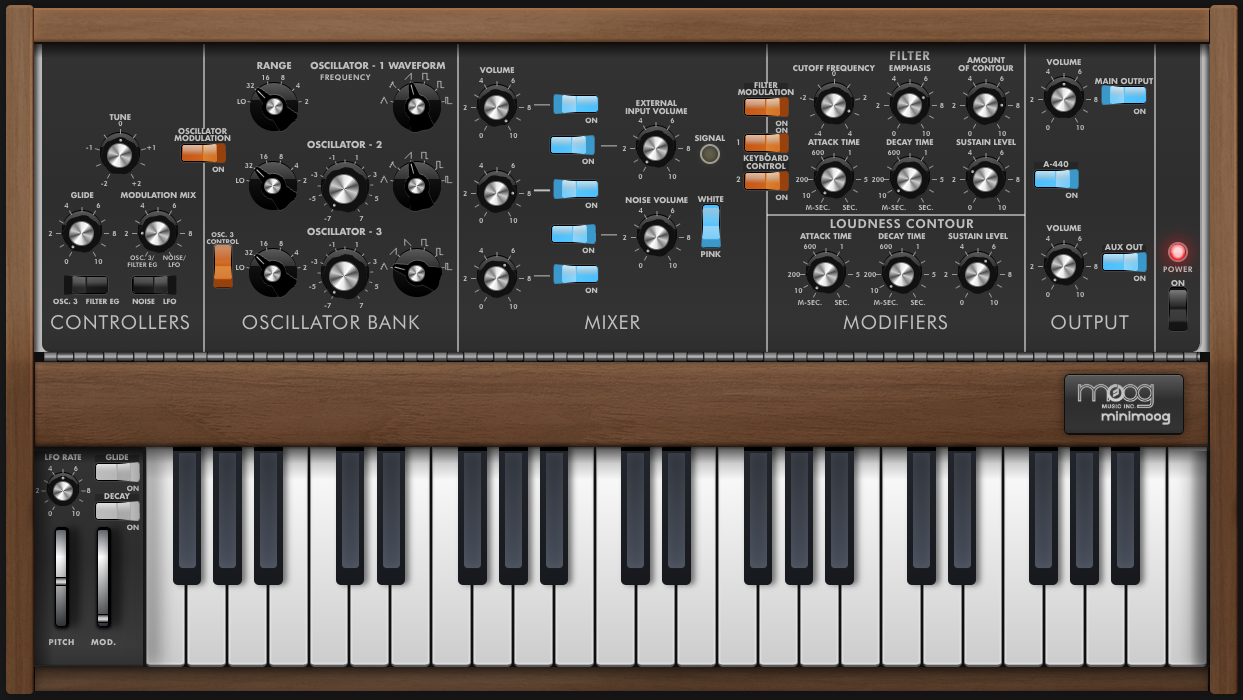
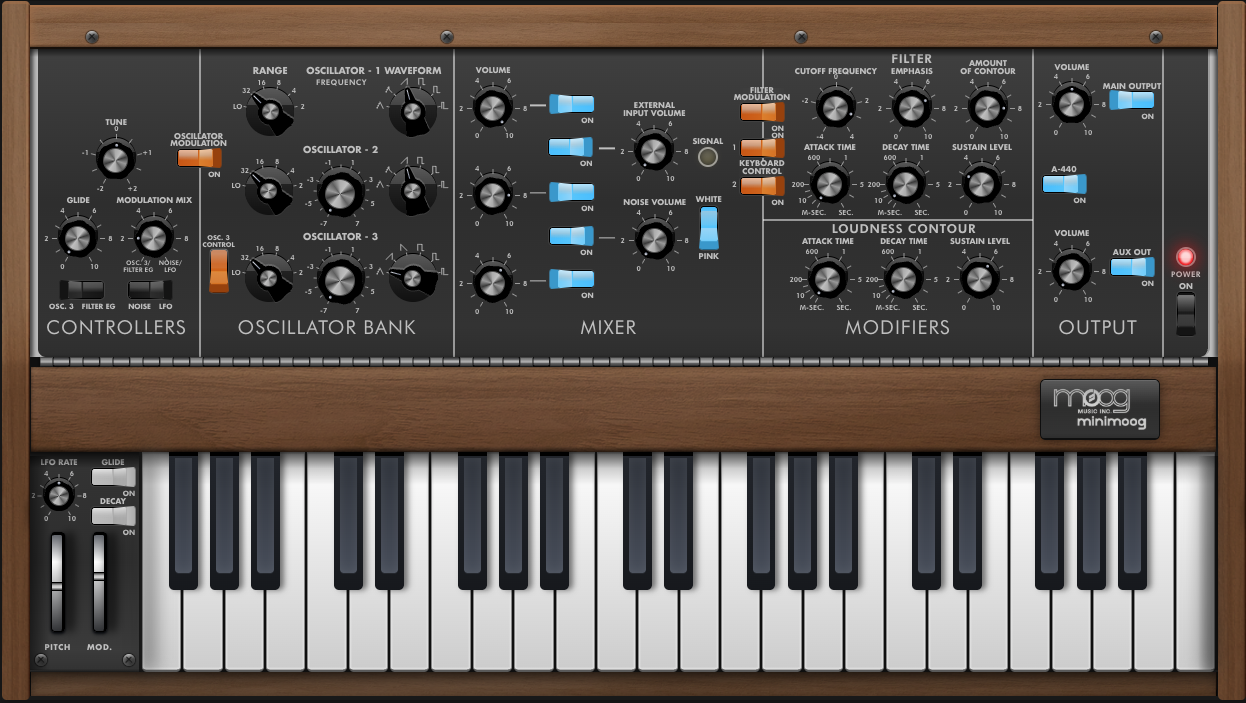
ci

Changed region(s): [[0.0, 0.0, 1.0, 1.0]]

diff --git a/index.html b/index.html
@@ -10,7 +10,7 @@
       href="https://fonts.googleapis.com/css2?family=Urbanist:wght@400;500;600;700;800;900&display=swap"
       rel="stylesheet"
     />
-    <title>Vite + React + TS</title>
+    <title>Minimoog</title>
   </head>
   <body>
     <div id="root"></div>

diff --git a/src/components/Knob/Knob.tsx b/src/components/Knob/Knob.tsx
@@ -46,6 +46,7 @@ function Knob({
       ? displayValue
       : value.toFixed(step >= 1 ? 0 : 2) + (unit ? ` ${unit}` : "");
 
+  console.log("valueLabels", Object.values(valueLabels));
   return (
     <div
       style={style}

diff --git a/README.md b/README.md
@@ -1,7 +1,7 @@
 # Minimoog Model D Emulator
 
 <p align="center">
-  <img src="public/images/minimoog-real.png" alt="Original Minimoog Model D" width="100%"/><br/>
+  <img src="public/images/minimoog-real.webp" alt="Original Minimoog Model D" width="100%"/><br/>
   <em>Original Minimoog Model D (hardware)</em>
 </p>
 
@@ -61,8 +61,6 @@ Experience the Minimoog Model D emulator in your browser:
 
 This project recreates the iconic Minimoog Model D synthesizer in the browser using modern web technologies. It provides an authentic recreation of the original instrument's sound and interface, making the legendary synthesizer accessible to anyone with a web browser.
 
-### What Makes This Special
-
 - **Authentic Sound**: Faithful recreation of the synthesizer's oscillator characteristics and filter behavior
 - **Real-time Performance**: Low-latency audio processing for live performance
 - **Responsive Design**: Works seamlessly on desktop and mobile devices
@@ -93,8 +91,8 @@ This project recreates the iconic Minimoog Model D synthesizer in the browser us
 - **URL State Persistence**: Save and share your current settings via URL parameters
 - **Responsive Design**: Works on desktop and mobile devices
 - **Logarithmic Controls**: Natural-feeling frequency and filter controls
-- **Tuner Integration**: Built-in tuner for precise pitch calibration
-- **Overload Protection**: Visual indicators for signal clipping
+- **Tuner Integration**: Built-in A-440 tone generator
+- **Signal Indicator**: Visual indicator of incoming signal
 - **Aux Output**: Secondary audio output for external routing
 
 ---
@@ -247,6 +245,7 @@ public/                     # Static assets
   images/                   # UI reference images
   delay-processor.js        # Web Audio worklet processors
   modulation-monitor-processor.js
+  moog-zdf-processor.js
   overload-meter-processor.js
   pink-noise-processor.js
   white-noise-processor.js
@@ -460,12 +459,9 @@ We welcome contributions to improve the Minimoog Model D emulator!
 - **Write Docs**: Add documentation for new features
 
 ### Areas for Contribution
-
-- **New Features**: Additional synthesis capabilities
-- **UI Improvements**: Enhanced user interface
+- **Filter Quality**: Improve the quality of the 4-pole ladder filter
 - **Performance**: Audio and rendering optimizations
 - **Testing**: Improved test coverage and quality
-- **Documentation**: Better guides and examples
 - **Accessibility**: Improved accessibility features
 
 ---
@@ -531,13 +527,4 @@ The only requirement is that the original license and copyright notice be includ
 
 ---
 
-## Acknowledgments
-
-- **Bob Moog**: For creating the iconic Minimoog Model D
-- **Web Audio API Community**: For advancing browser-based audio synthesis
-- **React Team**: For the excellent framework and ecosystem
-- **Open Source Contributors**: For the tools and libraries that make this possible
-
----
-
-_Built with ❤ and Web Audio API_
+_Built with ❤ by S.Barakat_
